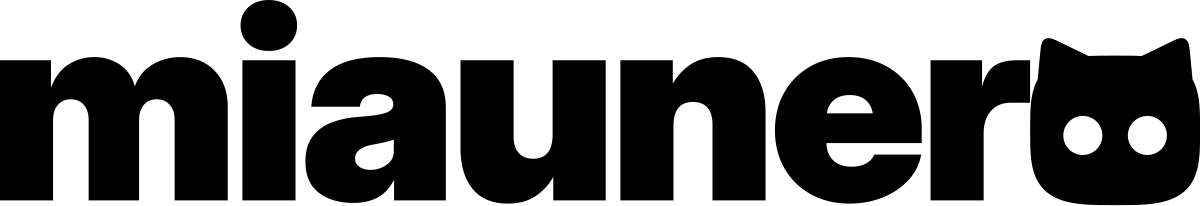
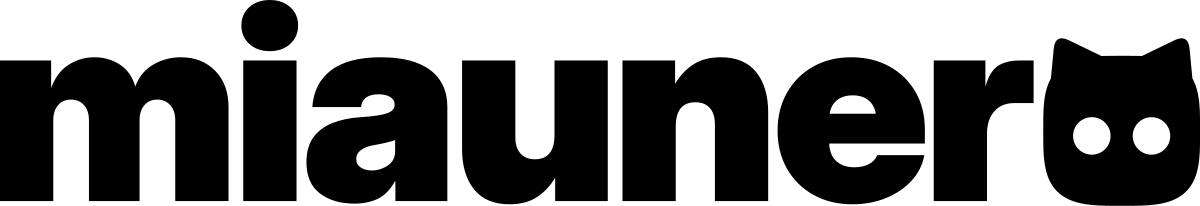
Wordmark de Miaunero: más aire tras la «r» y Michi más angosto
Dentro del wordmark Michi pesa como una «o» negrita y la «r» ya no roza su oreja; ojos aún legibles a 24 px. Ícono, favicon y símbolo sin cambios.

diff --git a/branding/build_kit.py b/branding/build_kit.py
@@ -72,11 +72,13 @@ BODY = (CX - A, CY - B, CX + A, CY + B)  # body box, without the ears
 EAR_TOP = CY - B - 26  # tip of the ears
 
 
-def mark(small=False):
-    body = superellipse_cw(CX, CY, A, B, 3.4)
-    o, t, i = (CX - A + 6, CY - 30), (CX - A + 14, EAR_TOP), (CX - A + 76, CY - B + 4)
+def mark(small=False, a=A, eyes=None):
+    """small: the cut for 40 px or less (bigger eyes). a: half-width of the body (narrower inside the
+    wordmark); eyes: (radius, distance from the centre) to override the cut's eyes."""
+    body = superellipse_cw(CX, CY, a, B, 3.4)
+    o, t, i = (CX - a + 6, CY - 30), (CX - a + 14, EAR_TOP), (CX - a + 76, CY - B + 4)
     ears = ear(o, t, i, 18) + " " + ear(mirror(o), mirror(t), mirror(i), 18)
-    r, dx = (23, 38) if small else (14.5, 32)
+    r, dx = eyes or ((23, 38) if small else (14.5, 32))
     eyes = eye_ccw(CX - dx, 148, r) + " " + eye_ccw(CX + dx, 148, r)
     return f"{body} {ears} {eyes}"
 
@@ -180,8 +182,18 @@ def gbounds(name):
     return bp.bounds
 
 
-def wordmark(ink, mark_color, size=160, tracking=-0.03, text="miaunero", face=None):
+# Inside the wordmark Michi is a bit narrower than the stand-alone mark (as wide as a bold «o», so the word
+# doesn't end in a heavy blot), with the small cut's eyes scaled to it (they still read at 24 px),
+# and it gets extra room after the «r», whose arm would otherwise touch the left ear.
+WORD_A, WORD_EYES, WORD_GAP = 92, (22, 35), 0.035
+
+
+def wordmark(ink, mark_color, size=160, tracking=-0.03, text="miaunero", face=None,
+             face_a=None, face_eyes=None, face_gap=None):
     """face: index of the «o» drawn as the mark (default: the first o)."""
+    face_a = WORD_A if face_a is None else face_a
+    face_eyes = WORD_EYES if face_eyes is None else face_eyes
+    face_gap = WORD_GAP if face_gap is None else face_gap
     face = text.index("o") if face is None else face
     sc = size / UPM
     pen = SVGPathPen(gs)
@@ -198,15 +210,18 @@ def wordmark(ink, mark_color, size=160, tracking=-0.03, text="miaunero", face=No
             x += 0.035 * size  # keep the f's hook off the i's dot
         prev = ch
         if idx == face:
-            bw, bh = BODY[2] - BODY[0], BODY[3] - BODY[1]
+            x += face_gap * size
+            x0b, x1b = CX - face_a, CX + face_a
+            bw, bh = x1b - x0b, BODY[3] - BODY[1]
             s = o_h * 1.02 / bh
             lsb = ob[0] * sc
-            tx = x + lsb - BODY[0] * s
+            tx = x + lsb - x0b * s
             ty = base - ob[3] * sc - o_h * 0.01 - BODY[1] * s
-            sym = f'<path fill="{mark_color}" transform="translate({f(tx)},{f(ty)}) scale({f(s)})" d="{mark(True)}"/>'
+            d = mark(a=face_a, eyes=face_eyes)
+            sym = f'<path fill="{mark_color}" transform="translate({f(tx)},{f(ty)}) scale({f(s)})" d="{d}"/>'
             top = min(top, ty + (EAR_TOP + 5.5) * s)
             bottom = max(bottom, ty + BODY[3] * s)
-            right = tx + BODY[2] * s
+            right = tx + x1b * s
             adv = 2 * lsb + bw * s
         else:
             gs[name].draw(TransformPen(pen, (sc, 0, 0, -sc, x, base)))
